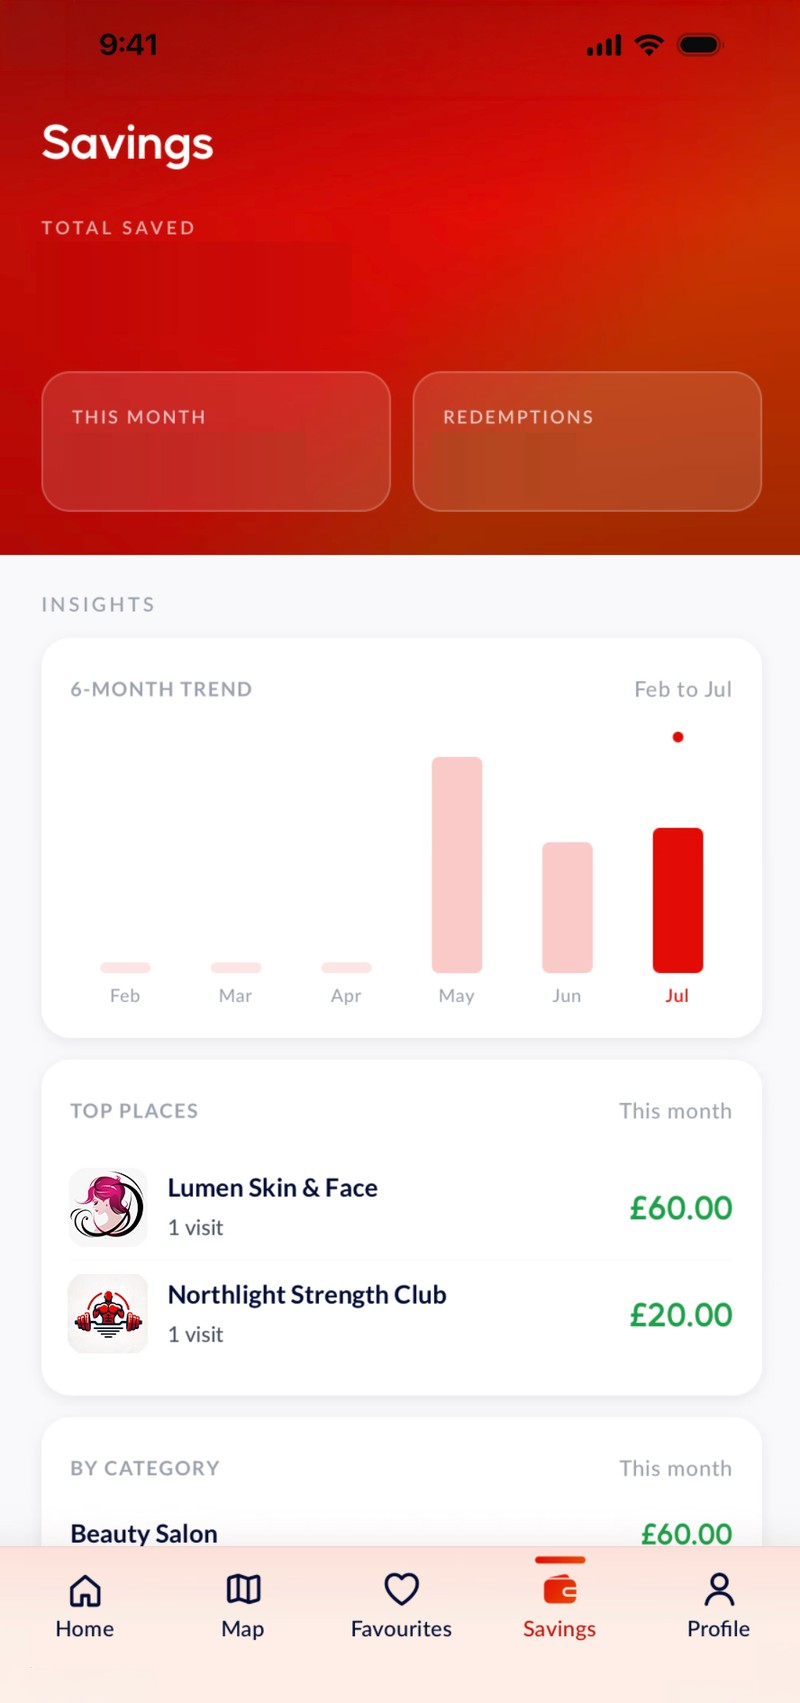
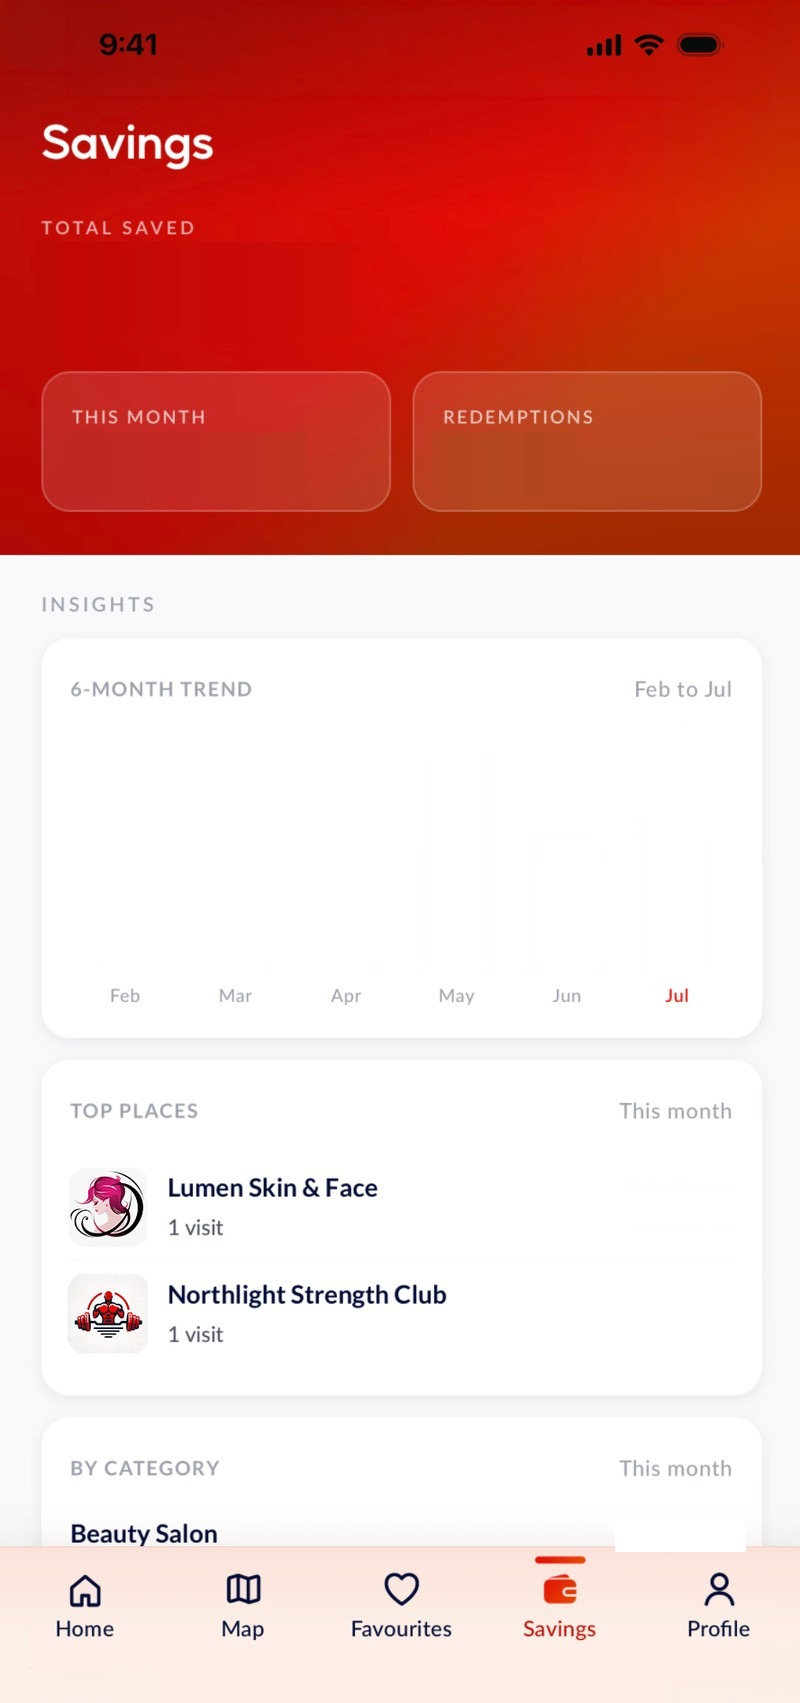
feat(customer-web): journey revision 3: long QR dwell, savings slides up as a new flow (dim + seam shadow), DOM replica trend bars spring for all six months, static Jul dot, coherent savings maths (46/26/12/26, redemptions 23)

diff --git a/apps/customer-web/components/landing/AppJourneySection.tsx b/apps/customer-web/components/landing/AppJourneySection.tsx
@@ -20,8 +20,13 @@ import { useScrollLinked } from './scroll'
  * taps High Street then Confirm; the PIN boxes fully cover the baked ones;
  * the success moment RAINS confetti from the top of the phone screen and
  * taps View voucher code; nothing pops out of the phone (the QR pop-out
- * card was cut); the savings chapter counts all three numbers (redemptions
- * to 23), animates all six trend bars, and stays on one screen.
+ * card was cut); the QR screen gets a LONG dwell (it is the significant
+ * screen) and the savings screen arrives by SLIDING UP over it: a new flow
+ * gets a new transition, not the in-flow crossfade; the trend bars are DOM
+ * replicas of the (now blanked) baked bars so all six visibly spring up,
+ * Feb-Apr stubs included; the Jul dot is present from screen arrival; the
+ * numbers are coherent (this month GBP46 > top places 26+12, Beauty Salon
+ * 26 matches, redemptions 23, May visibly below Jul).
  *
  * The savings capture (800x1703) is slightly wider than the screen under
  * object-cover, so overlays aligned to its pixels must go through savX():
@@ -60,7 +65,7 @@ const CHAPTERS = [
     kicker: '05 · Keep score',
     title: 'Watch it add up.',
     body: 'Every redemption is logged: what you saved, where, and how the months are trending. One dinner voucher typically covers the month of membership. Everything after that is keeping score.',
-    still: '/app-shots/journey/savings-top-full.jpg',
+    still: '/app-shots/journey/savings-top-full.jpg?v=3',
   },
 ]
 
@@ -85,7 +90,11 @@ const PIN_KEYS: Record<string, [number, number]> = {
 const PIN_DIGITS = ['4', '7', '2', '9']
 const PIN_BOX_LEFTS = [0.198, 0.352, 0.506, 0.661]
 const PIN_BOX = { top: 0.409, w: 0.136, h: 0.08 }
-const KEY_TIMES = [0.36, 0.42, 0.48, 0.54]
+const KEY_TIMES = [0.32, 0.37, 0.42, 0.47]
+
+// Chapter boundaries in global progress. Chapter four runs long so the QR
+// screen (the significant one) holds before the savings flow slides in.
+const CH_BOUNDS = [0, 0.2, 0.4, 0.6, 0.84, 1]
 
 // Savings capture geometry: the 800x1703 image is cropped ~3.5px each side
 // by object-cover, so capture x-fractions must be remapped to the container
@@ -94,13 +103,22 @@ const SAV_SCALE = Math.max(PHONE_W / SAV_CAP.w, SCREEN_H / SAV_CAP.h)
 const SAV_OFF_X = (SAV_CAP.w * SAV_SCALE - PHONE_W) / 2
 const savX = (f: number) => (f * SAV_CAP.w * SAV_SCALE - SAV_OFF_X) / PHONE_W
 
-// Savings trend bars, MEASURED from the capture (redness scan 2026-07-13):
-// [x, w, topFrac] in capture fractions; all six animate, Feb-Apr included
-const BARS: Array<[number, number, number]> = [
-  [0.1263, 0.0612, 0.5655], [0.265, 0.0612, 0.5649], [0.4012, 0.0625, 0.5655],
-  [0.5387, 0.065, 0.4439], [0.6775, 0.0638, 0.4944], [0.815, 0.065, 0.4292],
+// Savings trend bars: the baked bars are BLANKED out of the capture and
+// these DOM replicas (measured by redness scan, colours sampled from the
+// original pixels) spring up in their place: a real growth the eye can see
+// even on the tiny Feb-Apr stubs. [x, w, h, colour] in capture fractions.
+const BAR_BASELINE = 0.5716
+const BAR_SPECS: Array<[number, number, number, string]> = [
+  [0.1263, 0.0612, 0.0058, '#FBE6E3'], [0.265, 0.0612, 0.0064, '#FBE6E3'],
+  [0.4012, 0.0625, 0.0058, '#FBE6E3'], [0.5387, 0.065, 0.1274, '#FACAC8'],
+  [0.6775, 0.0638, 0.0769, '#FACAC8'], [0.815, 0.065, 0.1421, '#E20B06'],
 ]
-const BAR_BASE = 0.5755
+
+// Top places / By category amounts: blanked in the capture, re-set here so
+// the maths reads true against GBP46 this month (owner 2026-07-13)
+const AMOUNT_ROWS: Array<{ yc: number; v: string }> = [
+  { yc: 0.7089, v: '£26.00' }, { yc: 0.7718, v: '£12.00' }, { yc: 0.9008, v: '£26.00' },
+]
 
 // Confetti: a deterministic rain from the top of the phone screen. Hash-based
 // pseudo-randoms keep SSR and client renders identical.
@@ -175,8 +193,8 @@ function Screen({ opacity, children, bg = '#FFF9F5' }: { opacity: MotionValue<nu
 }
 
 function ConfettiPiece({ local, p }: { local: MotionValue<number>; p: (typeof CONFETTI)[number] }) {
-  const t0 = 0.625 + p.delay
-  const t1 = t0 + 0.22
+  const t0 = 0.565 + p.delay
+  const t1 = t0 + 0.2
   const mid = (t0 + t1) / 2
   const y = useBand(local, [t0, t1], [0, p.fall])
   const x = useBand(local, [t0, mid, t1], [0, p.sway * 0.55, p.sway])
@@ -206,23 +224,29 @@ function Stage() {
 
   const bg = useTransform(
     scrollYProgress,
-    [0, 0.2, 0.4, 0.6, 0.8, 1],
+    CH_BOUNDS,
     ['#FFF9F5', '#FFFFFF', '#FFFFFF', '#FFF6F3', '#FFFFFF', '#FFF9F5'],
   )
 
-  // Chapter screen opacities (crossfade at each 0.2 boundary). The phone
+  // Chapter screen opacities (crossfades within the app flow). The phone
   // itself is completely still (owner 2026-07-13): the life is on-screen.
+  // Chapter five does NOT crossfade: it is a new flow, so it slides up
+  // over the QR screen instead (see ch5Y below).
   const op1 = useBand(scrollYProgress, [0, 0.185, 0.205], [1, 1, 0])
   const op2 = useBand(scrollYProgress, [0.185, 0.205, 0.385, 0.405], [0, 1, 1, 0])
   const op3 = useBand(scrollYProgress, [0.385, 0.405, 0.585, 0.605], [0, 1, 1, 0])
-  const op4 = useBand(scrollYProgress, [0.585, 0.605, 0.785, 0.805], [0, 1, 1, 0])
-  const op5 = useBand(scrollYProgress, [0.785, 0.805, 1], [0, 1, 1])
+  const op4 = useBand(scrollYProgress, [0.585, 0.605, 0.875, 0.895], [0, 1, 1, 0])
 
-  const L1 = useTransform(scrollYProgress, [0, 0.2], [0, 1])
-  const L2 = useTransform(scrollYProgress, [0.2, 0.4], [0, 1])
-  const L3 = useTransform(scrollYProgress, [0.4, 0.6], [0, 1])
-  const L4 = useTransform(scrollYProgress, [0.6, 0.8], [0, 1])
-  const L5 = useTransform(scrollYProgress, [0.8, 1], [0, 1])
+  const L1 = useTransform(scrollYProgress, [CH_BOUNDS[0], CH_BOUNDS[1]], [0, 1])
+  const L2 = useTransform(scrollYProgress, [CH_BOUNDS[1], CH_BOUNDS[2]], [0, 1])
+  const L3 = useTransform(scrollYProgress, [CH_BOUNDS[2], CH_BOUNDS[3]], [0, 1])
+  const L4 = useTransform(scrollYProgress, [CH_BOUNDS[3], CH_BOUNDS[4]], [0, 1])
+  const L5 = useTransform(scrollYProgress, [0.875, 1], [0, 1])
+
+  // The flow break: savings pushes up like a fresh app context while the
+  // QR screen dims beneath it
+  const ch5Y = useBand(scrollYProgress, [0.835, 0.875], [SCREEN_H, 0])
+  const qrDim = useBand(scrollYProgress, [0.835, 0.875], [0, 0.35])
 
   /* Chapter 1: the real home screen first, then the feed scroll */
   const homeTopOp = useBand(L1, [0.26, 0.34], [1, 0])
@@ -234,28 +258,31 @@ function Stage() {
   /* Chapter 3: full screen; the redeem button glows, then gets tapped */
   const redeemGlow = useBand(L3, [0.3, 0.55, 0.72, 0.95], [0, 1, 1, 0.5])
 
-  /* Chapter 4: High Street tap, Confirm tap, PIN, confetti success, QR */
-  const branchOp = useBand(L4, [0, 0.3, 0.34], [1, 1, 0])
-  const pinOp = useBand(L4, [0.3, 0.34, 0.6, 0.65], [0, 1, 1, 0])
-  const flash = useBand(L4, [0.6, 0.64, 0.69], [0, 0.55, 0])
-  const successOp = useBand(L4, [0.62, 0.67, 0.87, 0.9], [0, 1, 1, 0])
-  const successScale = useBand(L4, [0.62, 0.71], [0.93, 1])
-  const qrOp = useBand(L4, [0.86, 0.92, 1], [0, 1, 1])
-  const pinDigitOps = KEY_TIMES.map((t) => useBand(L4, [t + 0.015, t + 0.035], [0, 1]))
-  const keyFlashes = KEY_TIMES.map((t) => useBand(L4, [t - 0.015, t, t + 0.03], [0, 1, 0]))
+  /* Chapter 4: High Street tap, Confirm tap, PIN, confetti success, then a
+     LONG QR dwell: the flow's destination screen holds until the next flow
+     pushes in */
+  const branchOp = useBand(L4, [0, 0.26, 0.3], [1, 1, 0])
+  const pinOp = useBand(L4, [0.26, 0.3, 0.54, 0.59], [0, 1, 1, 0])
+  const flash = useBand(L4, [0.54, 0.58, 0.62], [0, 0.55, 0])
+  const successOp = useBand(L4, [0.56, 0.6, 0.78, 0.83], [0, 1, 1, 0])
+  const successScale = useBand(L4, [0.56, 0.64], [0.93, 1])
+  const qrOp = useBand(L4, [0.8, 0.85, 1], [0, 1, 1])
+  const pinDigitOps = KEY_TIMES.map((t) => useBand(L4, [t + 0.012, t + 0.03], [0, 1]))
+  const keyFlashes = KEY_TIMES.map((t) => useBand(L4, [t - 0.012, t, t + 0.025], [0, 1, 0]))
 
   /* Chapter 5: the ledger counts itself: total, month, redemptions, bars */
-  const totalNum = useBand(L5, [0.08, 0.48], [0, 325.45])
+  const totalNum = useBand(L5, [0.06, 0.46], [0, 325.45])
   const totalText = useTransform(totalNum, (v) => `£${v.toFixed(2)}`)
-  const monthNum = useBand(L5, [0.16, 0.5], [0, 96])
+  const monthNum = useBand(L5, [0.12, 0.5], [0, 46])
   const monthText = useTransform(monthNum, (v) => `£${v.toFixed(2)}`)
-  const redemptionsNum = useBand(L5, [0.26, 0.46], [0, 23])
+  const redemptionsNum = useBand(L5, [0.2, 0.48], [0, 23])
   const redemptionsText = useTransform(redemptionsNum, (v) => `${Math.round(v)}`)
-  const dotOp = useBand(L5, [0.58, 0.64], [0, 1])
-  const barsGrow = BARS.map((_, i) => useBand(L5, [0.12 + i * 0.055, 0.26 + i * 0.055], [1, 0]))
+  const barsGrow = BAR_SPECS.map(([, , h], i) =>
+    useBand(L5, [0.26 + i * 0.08, 0.36 + i * 0.08, 0.42 + i * 0.08], [0, h < 0.02 ? 2.4 : 1.12, 1]),
+  )
 
   return (
-    <div ref={trackRef} className="relative" style={{ height: '720vh' }}>
+    <div ref={trackRef} className="relative" style={{ height: '780vh' }}>
       <motion.div className="sticky top-0 h-screen overflow-hidden" style={{ background: bg }}>
         <div className="relative max-w-7xl mx-auto h-full px-6 grid grid-cols-[64px_1fr_420px] gap-8 items-center">
 
@@ -328,8 +355,8 @@ function Stage() {
                 <Screen opacity={op4} bg="#2a1a3e">
                   <motion.div className="absolute inset-0" style={{ opacity: branchOp }}>
                     <Image src="/app-shots/journey/branch-sheet.jpg" alt="" fill sizes="340px" className="object-cover object-top" />
-                    <Tap local={L4} at={[0.07, 0.17]} x="50%" y="79%" />
-                    <Tap local={L4} at={[0.2, 0.3]} x="50%" y="94.5%" />
+                    <Tap local={L4} at={[0.05, 0.14]} x="50%" y="79%" />
+                    <Tap local={L4} at={[0.16, 0.25]} x="50%" y="94.5%" />
                   </motion.div>
 
                   <motion.div className="absolute inset-0" style={{ opacity: pinOp }}>
@@ -369,7 +396,7 @@ function Stage() {
 
                   <motion.div className="absolute inset-0" style={{ opacity: successOp, scale: successScale }}>
                     <Image src="/app-shots/journey/success-sheet.jpg" alt="" fill sizes="340px" className="object-cover object-top" />
-                    <Tap local={L4} at={[0.77, 0.86]} x="50%" y="65.5%" />
+                    <Tap local={L4} at={[0.68, 0.77]} x="50%" y="65.5%" />
                   </motion.div>
                   {/* the success lands with a flash and brand confetti */}
                   <motion.div className="absolute inset-0 bg-white pointer-events-none" style={{ opacity: flash }} />
@@ -380,11 +407,19 @@ function Stage() {
                   <motion.div className="absolute inset-0" style={{ opacity: qrOp }}>
                     <Image src="/app-shots/journey/qr-screen.jpg" alt="" fill sizes="340px" className="object-cover object-top" />
                   </motion.div>
+                  {/* the redemption flow dims as the savings flow pushes in */}
+                  <motion.div className="absolute inset-0 bg-black pointer-events-none" style={{ opacity: qrDim }} />
                 </Screen>
 
-                {/* ── 05 Savings: one screen, counting itself up ── */}
-                <Screen opacity={op5} bg="#F8F7F5">
-                  <Image src="/app-shots/journey/savings-top.jpg" alt="" fill sizes="340px" className="object-cover object-top" />
+                {/* ── 05 Savings: a NEW flow, so it slides up over the QR
+                       screen instead of crossfading, then counts itself up ── */}
+                <motion.div
+                  className="absolute inset-0 overflow-hidden"
+                  style={{ y: ch5Y, background: '#F8F7F5', boxShadow: '0 -22px 48px rgba(1,12,53,0.4)' }}
+                >
+                  {/* ?v=3: the asset was re-baked in place (bars + amounts
+                      blanked); the query busts optimizer + browser caches */}
+                  <Image src="/app-shots/journey/savings-top.jpg?v=3" alt="" fill sizes="340px" className="object-cover object-top" />
                   <div className="absolute flex items-center" style={{ left: '4.8%', top: '13.9%', height: '5.6%' }}>
                     <motion.span className="font-display text-white leading-none" style={{ fontSize: 37, letterSpacing: '-0.8px' }}>
                       {totalText}
@@ -400,22 +435,36 @@ function Stage() {
                       {redemptionsText}
                     </motion.span>
                   </div>
-                  {BARS.map(([bx, bw, btop], i) => (
+                  {BAR_SPECS.map(([bx, bw, bh, colour], i) => (
                     <motion.div
                       key={i}
-                      className="absolute bg-white pointer-events-none"
+                      className="absolute pointer-events-none"
                       style={{
-                        left: `${savX(bx - 0.008) * 100}%`, width: `${(savX(bx + bw + 0.008) - savX(bx - 0.008)) * 100}%`,
-                        top: `${(btop - 0.006) * 100}%`, height: `${(BAR_BASE - btop + 0.006) * 100}%`,
-                        scaleY: barsGrow[i], transformOrigin: 'top',
+                        left: `${savX(bx) * 100}%`, width: `${(savX(bx + bw) - savX(bx)) * 100}%`,
+                        top: `${(BAR_BASELINE - bh) * 100}%`, height: `${bh * 100}%`,
+                        background: colour, borderRadius: '3px 3px 0 0',
+                        scaleY: barsGrow[i], transformOrigin: 'bottom',
                       }}
                     />
                   ))}
-                  <motion.div
-                    className="absolute w-2 h-2 rounded-full bg-[#E20C04]"
-                    style={{ left: '83.5%', top: '42.9%', opacity: dotOp }}
+                  {/* the current-month dot sits above the Jul bar from the
+                      moment the screen arrives (owner: no delayed pop-in) */}
+                  <div
+                    className="absolute w-2 h-2 -translate-x-1/2 rounded-full bg-[#E20C04]"
+                    style={{ left: `${savX(0.8475) * 100}%`, top: '41.6%' }}
                   />
-                </Screen>
+                  {/* Top places + By category amounts, re-set over the
+                      blanked capture so the sums read true against £46 */}
+                  {AMOUNT_ROWS.map((row) => (
+                    <div
+                      key={row.yc}
+                      className="absolute flex items-center justify-end"
+                      style={{ left: `${savX(0.7) * 100}%`, width: `${(savX(0.915) - savX(0.7)) * 100}%`, top: `${(row.yc - 0.012) * 100}%`, height: '2.4%' }}
+                    >
+                      <span className="font-body font-semibold" style={{ fontSize: 13, color: '#16A951' }}>{row.v}</span>
+                    </div>
+                  ))}
+                </motion.div>
               </div>
 
               {/* Notch */}
@@ -433,8 +482,8 @@ function Stage() {
 }
 
 function RailItem({ progress, index, label }: { progress: MotionValue<number>; index: number; label: string }) {
-  const a = index * 0.2
-  const b = (index + 1) * 0.2
+  const a = CH_BOUNDS[index]
+  const b = CH_BOUNDS[index + 1]
   const active = useBand(progress, [a - 0.02, a + 0.02, b - 0.02, b + 0.02], index === 0 ? [1, 1, 1, 0.28] : index === 4 ? [0.28, 1, 1, 1] : [0.28, 1, 1, 0.28])
   return (
     <motion.div className="flex items-center gap-2.5" style={{ opacity: active }}>
@@ -445,8 +494,8 @@ function RailItem({ progress, index, label }: { progress: MotionValue<number>; i
 }
 
 function CopyLayer({ progress, index, chapter }: { progress: MotionValue<number>; index: number; chapter: (typeof CHAPTERS)[number] }) {
-  const a = index * 0.2
-  const b = (index + 1) * 0.2
+  const a = CH_BOUNDS[index]
+  const b = CH_BOUNDS[index + 1]
   const opacity = useBand(
     progress,
     index === 0 ? [0, 0.15, b - 0.015] : index === 4 ? [a + 0.015, a + 0.05, 1] : [a + 0.015, a + 0.05, b - 0.05, b - 0.015],

diff --git a/docs/design/customer-web-prelaunch/execution-log.md b/docs/design/customer-web-prelaunch/execution-log.md
@@ -692,3 +692,22 @@ edited by this workstream.
   right, Feb-Apr stubs included, and the Jul bar's true top (0.429, not
   0.48) is now covered. Verified at 17.6%/73.6%/86%/92% scroll; tsc clean;
   no hydration issues.
+- APP JOURNEY REVISION 3 (owner feedback 2026-07-13): the QR/redemption-code
+  screen now gets a LONG dwell (chapter four extended to the 0.84 boundary,
+  track 720vh -> 780vh, in-chapter beats compressed so the flow's
+  destination screen holds); the savings chapter no longer crossfades in:
+  it is a NEW flow, so the screen SLIDES UP over the QR screen (iOS-sheet
+  push with seam shadow) while the QR screen dims beneath: a visibly
+  different transition marking the flow break. Trend bars rebuilt as DOM
+  REPLICAS: the baked bars are blanked out of the capture and measured
+  replicas (positions by redness scan, colours sampled per bar) spring up
+  with overshoot: all six now visibly animate, Feb-Apr stubs included. The
+  Jul dot is static from screen arrival (owner: the delayed pop looked
+  odd; scan proved no dot is baked). Numbers made coherent (owner): this
+  month counts to GBP46 (was 96), top places re-set to GBP26/GBP12 and By
+  Category Beauty Salon to GBP26 (baked amounts blanked, DOM text in brand
+  green over them; fallback savings-top-full re-baked with Mustica/Lato
+  drawn values GBP46.00 + 23 + green rows). Assets referenced with ?v=3:
+  they were re-baked in place and Next's image optimizer served the stale
+  originals (which faked mid-slide bars + garbled amounts during
+  verification). Verified at 81.6%/85.5%/91.5%/94.5%/98.5%; tsc clean.
